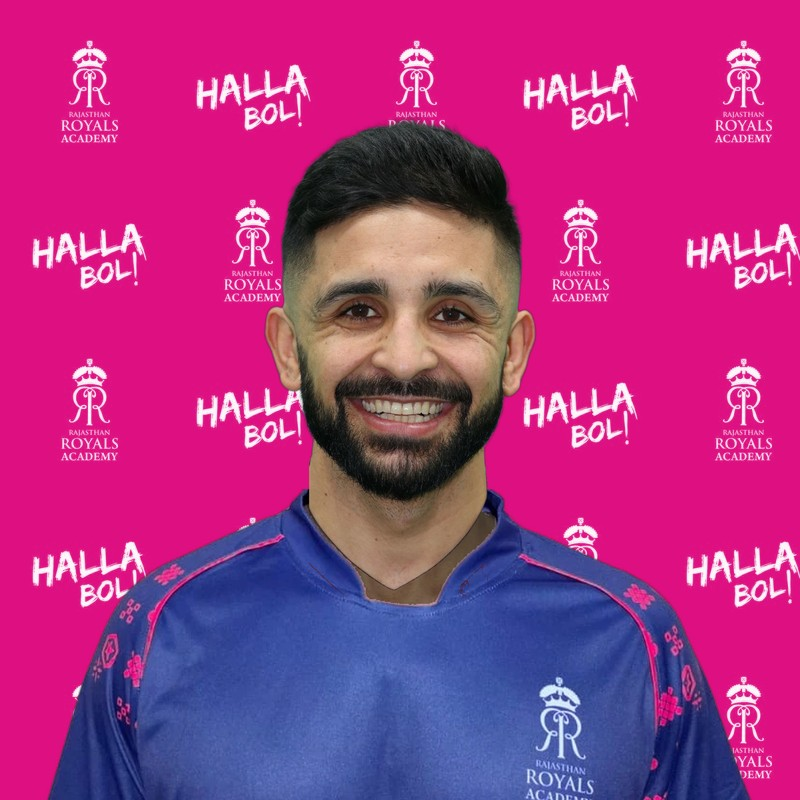
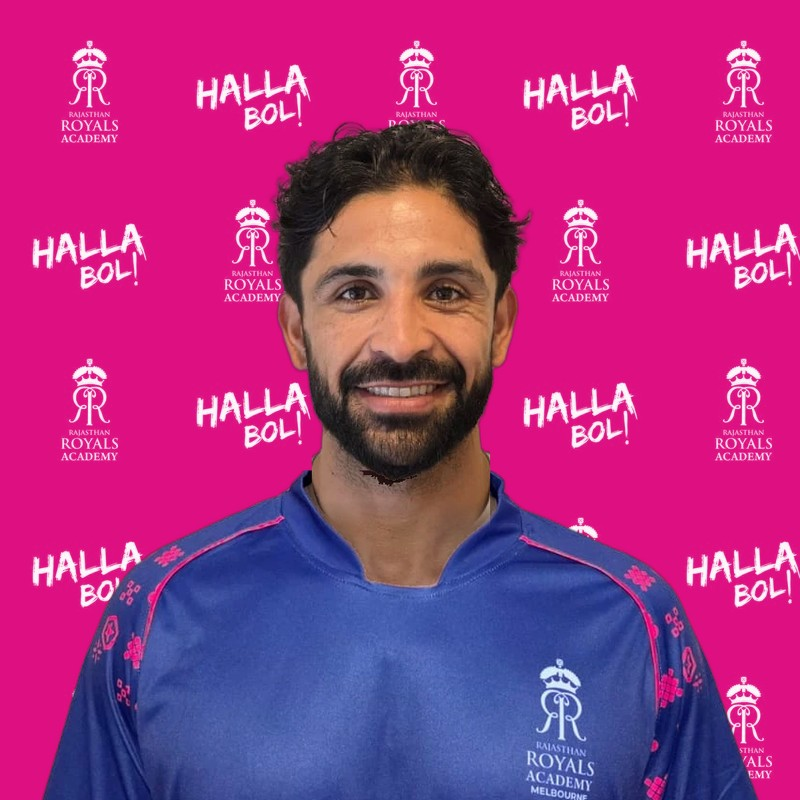
[Private Coaching] New photos for Hamid and Sid; Sid's bio
- Hamid: Andy's new photo, in the Royals training shirt on the HALLA BOL! wall.
- Sid: his photo re-framed to match the other coaches (same size, training
  shirt, wall). Name spelt Siddhartha, as on his profile sheet; page is now
  /private-coaching-siddhartha-banerjee (old spelling redirects).
- Sid's bio from his profile sheet.

Claude-Session: https://claude.ai/code/session_01LFFLZ7nuYUnqb3vFVCGv7a

diff --git a/src/components/premium-coaching/premiumCoachingData.js b/src/components/premium-coaching/premiumCoachingData.js
@@ -184,7 +184,7 @@ export const RATE_CARDS = {
         '1-2': { 1: 190, 3: 190, 5: 190 },
     },
     // Andy, 20 Nov 2026: Rittin, Ikroop, Mihiraj and Siddharth: 1-to-1 $145, training partner $170.
-    ...Object.fromEntries(['rittin-raman', 'ikroop-dhanoa', 'mihiraj-jayasekara', 'siddharth-banerjee'].map((slug) => [slug, {
+    ...Object.fromEntries(['rittin-raman', 'ikroop-dhanoa', 'mihiraj-jayasekara', 'siddhartha-banerjee'].map((slug) => [slug, {
         '1-1': { 1: 145, 3: 145, 5: 145 },
         '1-2': { 1: 170, 3: 170, 5: 170 },
     }])),
@@ -283,14 +283,16 @@ export const COACHES = [
         payLinks: true, // the coach-led Stripe funnel (pay links, ticks). Alex only for now (Andy, 22 Nov 2026).
     },
     {
-        slug: 'siddharth-banerjee',
-        name: 'Siddharth Banerjee',
+        // Spelling from his own profile sheet (Andy, 22 Nov 2026): Siddhartha. Known as Sid.
+        slug: 'siddhartha-banerjee',
+        name: 'Siddhartha Banerjee',
         centres: ['cranbourne-north', 'hallam'], // Hallam added Andy 20 Nov 2026: same coaches as Cranbourne North
         tier: 'performance', // Andy, 18 Nov 2026
         role: 'Royals Academy Coach',
-        specialism: null, // TODO Andy
-        img: null, // TODO: headshot
-        bio: null, // TODO Andy
+        specialism: 'Pace bowling and talent development',
+        img: '/assets/coaches/siddhartha-banerjee-halla.jpg', // Andy's photo, standard HALLA BOL! wall + training shirt
+        // From his profile sheet (Andy, 22 Nov 2026).
+        bio: 'An ICC-certified coach and a member of Cricket Coaches Australia for 20 years, Sid has played, trained and coached in India, England, Canada and Australia. He trained under fast bowling greats Dennis Lillee and Graham McKenzie at the MRF Pace Foundation and Pace Australia, and was a squad member of the MRF Indian Combined XI. He coaches every age, from juniors to seniors, and in 2025 won gold with Victoria at the Cricket Australia Masters National Championship (Over 50s) as the tournament’s highest scorer.',
     },
     {
         // Added Andy, 20 Nov 2026 (Mickleham). Profile from his coaching CV; no contact

diff --git a/api/_tests/privateCoachingPayment.test.js b/api/_tests/privateCoachingPayment.test.js
@@ -35,7 +35,7 @@ describe('private coaching checkout pricing (server side)', () => {
 
     it('prices each coach from their own card, else the tier table', () => {
         const one = (slug, centre) => bookingCheckout({ ...base, coach_slug: slug, centre, package_sessions: 1, selected_slots: [{ ...base.selected_slots[0], centre }] });
-        expect(one('siddharth-banerjee', 'cranbourne-north').totalCents).toBe(14500);
+        expect(one('siddhartha-banerjee', 'cranbourne-north').totalCents).toBe(14500);
         expect(one('mihiraj-jayasekara', 'mickleham').totalCents).toBe(14500);
         expect(bookingCheckout({ ...base, coach_slug: 'rittin-raman', centre: 'mickleham', format: '1-2', package_sessions: 1, selected_slots: [{ ...base.selected_slots[0], centre: 'mickleham' }] }).totalCents).toBe(17000);
         expect(one('jinang-shah', 'ravenhall').totalCents).toBe(14000);
